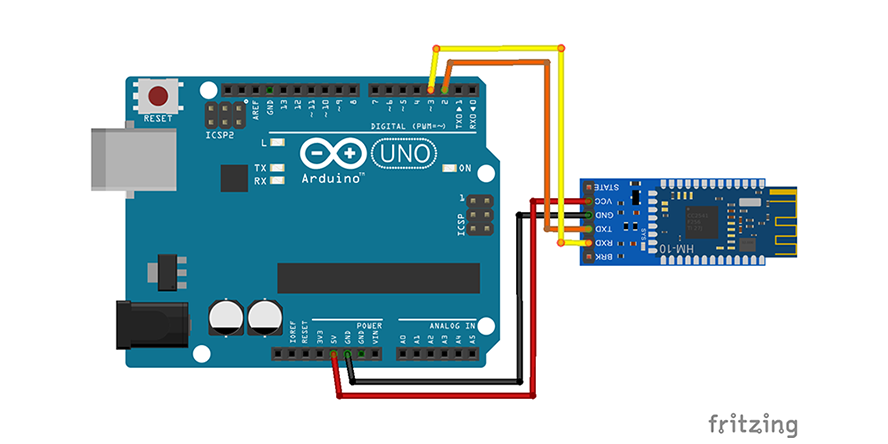
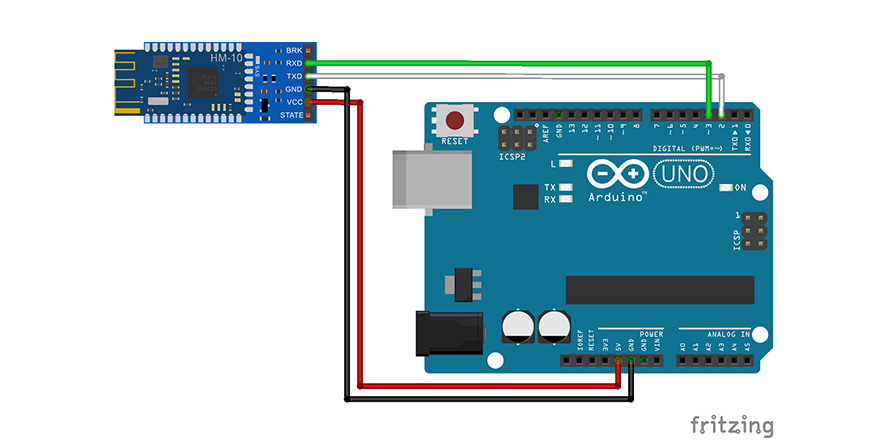
Patch version bumped, README updated with the link to the Habrahabr tutorial, Arduino Bridge scheme updated

diff --git a/README.md b/README.md
@@ -2,11 +2,12 @@
 
 [![devDependencies Status](https://david-dm.org/1oginov/Web-Bluetooth-Terminal/dev-status.svg)](https://david-dm.org/1oginov/Web-Bluetooth-Terminal?type=dev)
 
-![Favicon](https://raw.githubusercontent.com/1oginov/Web-Bluetooth-Terminal/master/icons/favicon-16x16.png)
-[https://1oginov.github.io/Web-Bluetooth-Terminal](https://1oginov.github.io/Web-Bluetooth-Terminal/) — try it out or
-see how it works on [YouTube](https://www.youtube.com/watch?v=BNXN_931W_M).
+![Favicon](https://1oginov.github.io/Web-Bluetooth-Terminal/icons/favicon-16x16.png)
+[https://1oginov.github.io/Web-Bluetooth-Terminal](https://1oginov.github.io/Web-Bluetooth-Terminal/) — try it out,
+see how it works on [YouTube](https://www.youtube.com/watch?v=BNXN_931W_M) or read tutorial on
+[Habrahabr](https://habrahabr.ru/post/339146/) (in Russian).
 
-Web Bluetooth Terminal is a website that can **connect** with the remote devices supporting **Bluetooth Low Energy**
+Web Bluetooth Terminal is a website that can **connect** with the remote devices which support **Bluetooth Low Energy**
 (also called Bluetooth Smart) and **exchange data bidirectionally**. It can be installed on your homescreen as an
 application and work offline.
 
@@ -17,7 +18,7 @@ specification, but needed if you want to make your own BLE IoT devices using aff
 
 The application utilises BLE service (`0xFFE0`) and characteristic (`0xFFE1`) available in low cost BLE modules based
 for example on CC2541 chip, such as HM-10, JDY-08, AT-09, CC41-A and other. Also, it bypasses 20 bytes limit specific
-for mentioned characteristic by keeping incoming messages in a buffer and waiting for the end of line characters.
+for GATT characteristics by keeping incoming messages in a buffer and waiting for the end of line characters.
 
 Check [Bluetooth Low Energy (Smart) device](#bluetooth-low-energy-smart-device) and
 [How to use this app as a base for my own project or to contribute?](#how-to-use-this-app-as-a-base-for-my-own-project-or-to-contribute)
@@ -124,20 +125,20 @@ command.
 Also, you can install [bluetooth-terminal](https://github.com/1oginov/bluetooth-terminal) package or
 [directly download the file](https://raw.githubusercontent.com/1oginov/bluetooth-terminal/master/BluetoothTerminal.js)
 containing `BluetoothTerminal` class written in ES6 and use it as you want. Here is a simple code snippet that can be
-helpful:
+helpful for a quick start:
 
 ```javascript
-// Pass service and characteristic UUIDs to the constructor to obtain configured instance
-let terminal = new BluetoothTerminal(0xFFE0, 0xFFE1);
+// Obtain configured instance
+let terminal = new BluetoothTeminal();
 
 // Override `receive` method to handle incoming data as you want
 terminal.receive = function(data) {
-  console.log('Data coming!', data);
+  alert(data);
 };
 
 // Request the device for connection and get its name after successful connection
 terminal.connect().then(() => {
-  console.log(terminal.getDeviceName() + ' is connected!');
+  alert(terminal.getDeviceName() + ' is connected!');
 });
 
 // Send something to the connected device
